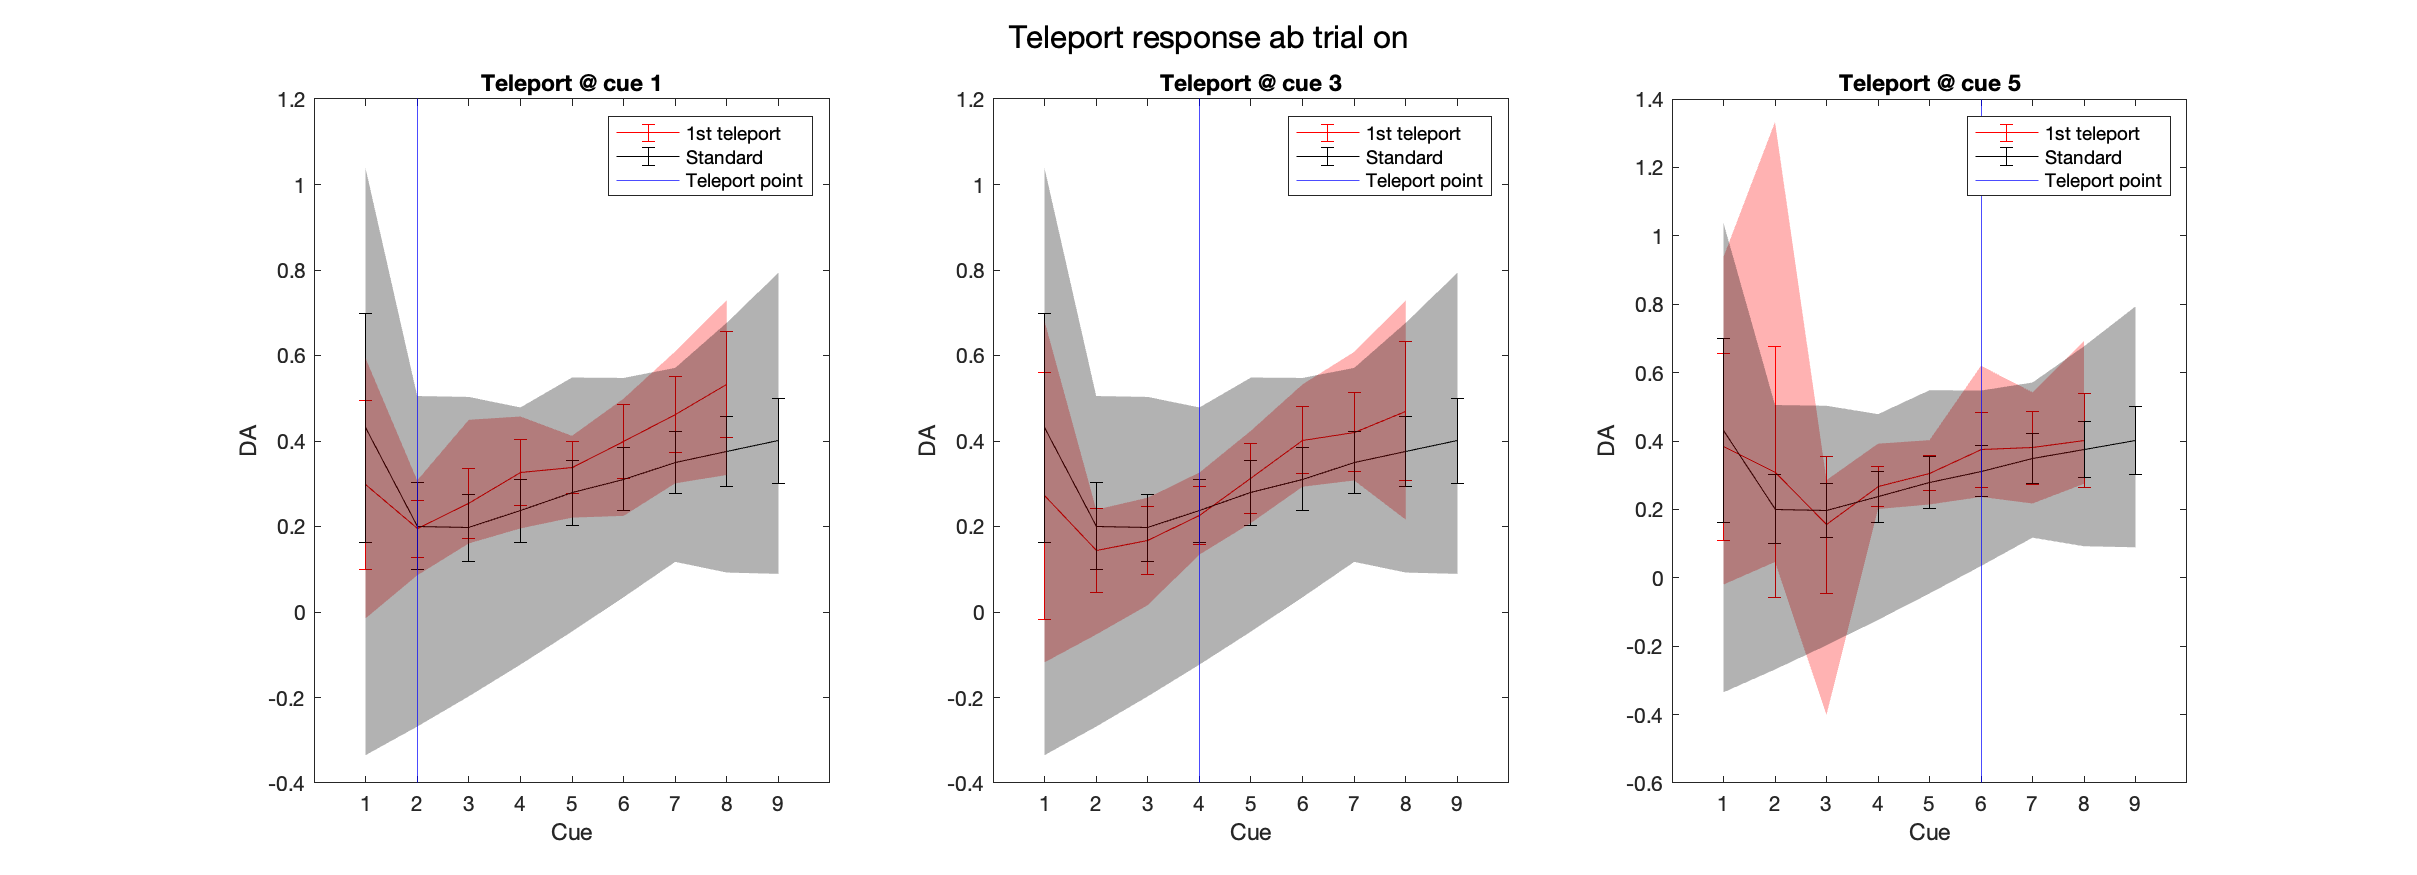
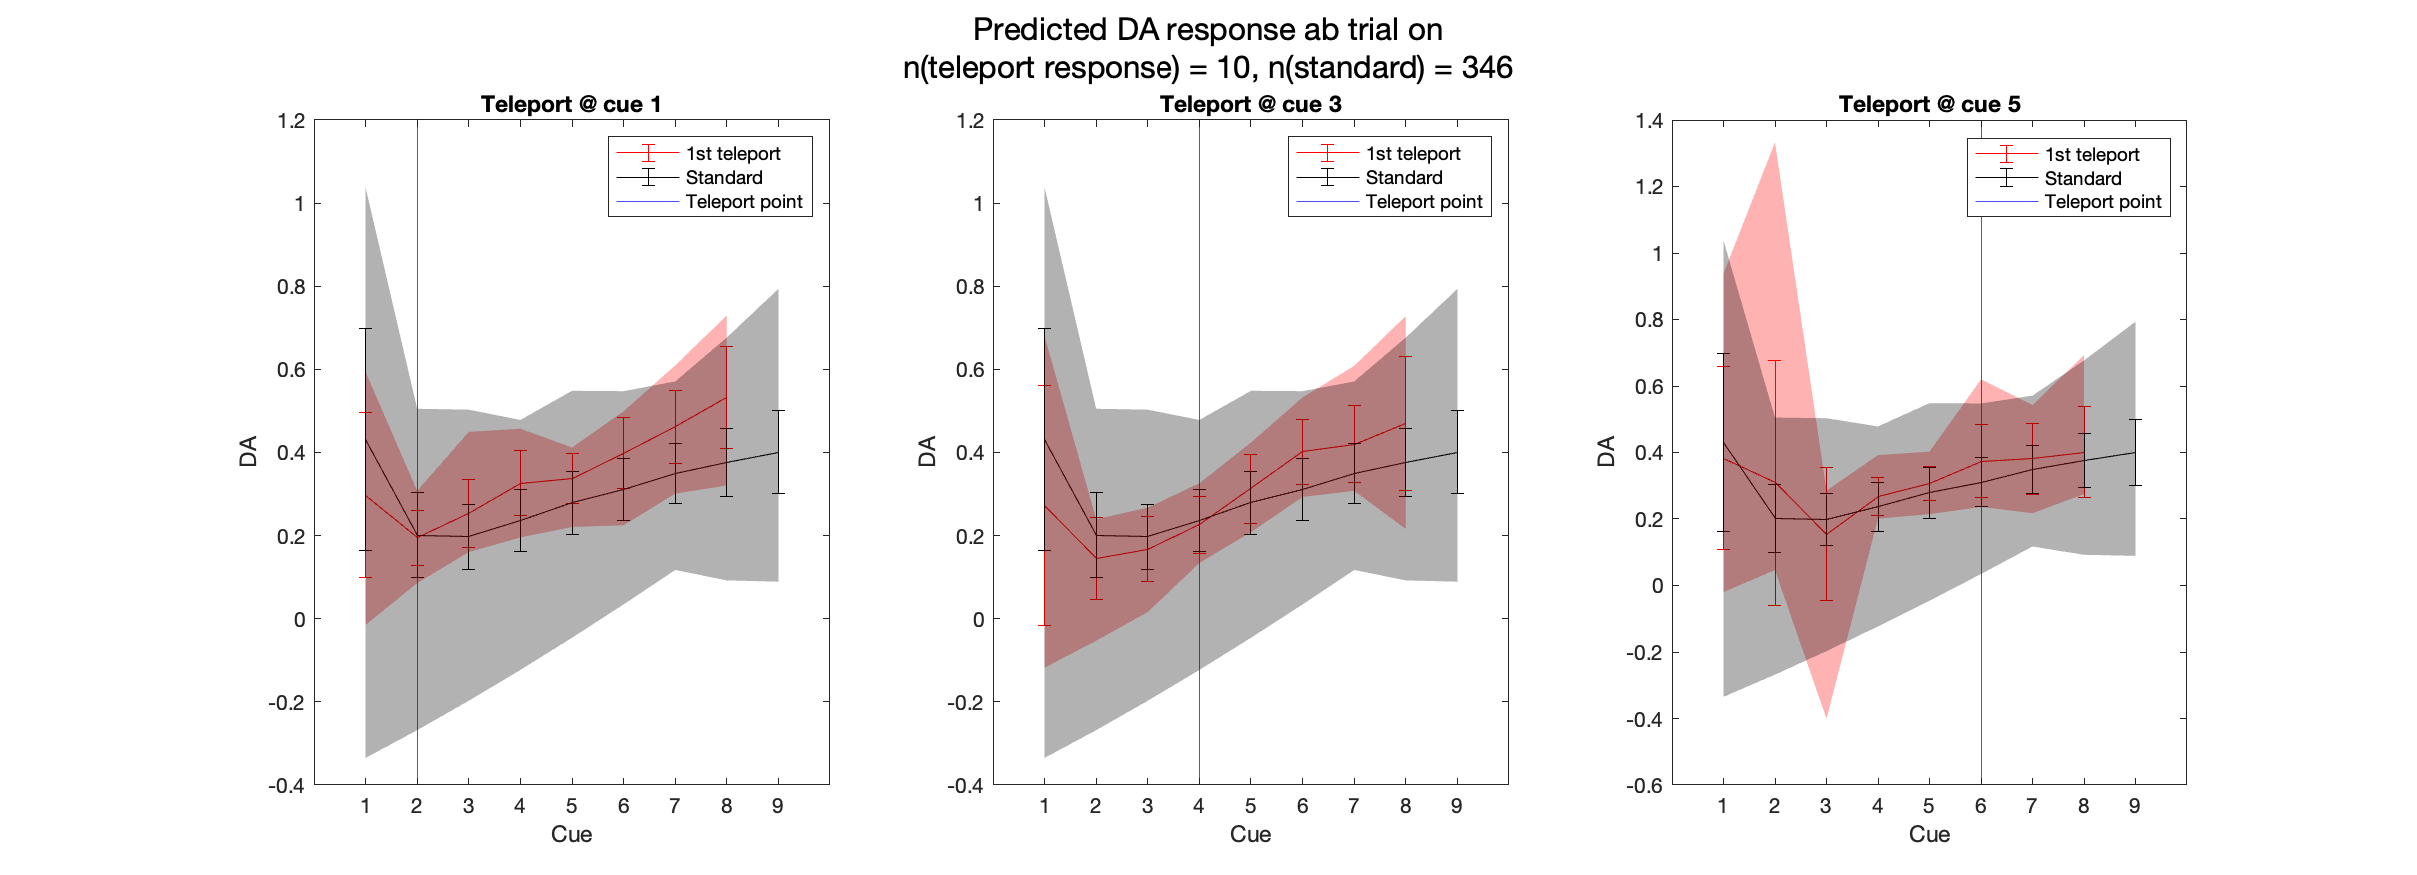
add number of data information in figures

diff --git a/analysis/figS13/plot_teleport.m b/analysis/figS13/plot_teleport.m
@@ -44,8 +44,12 @@ function [] = plot_teleport()
         ) ...
     );
    
-    figure('Name', 'Figure 1. Teleport response aligned by trial on');
-    sgtitle('Teleport response ab trial on')
+    figure('Name', 'Figure 1. Predicted DA response aligned by trial on');
+    t = sprintf(['Predicted DA response ab trial on\n' ...
+        'n(teleport response) = %d, n(standard) = %d'], ...
+        n_sim, n_ctrl ...
+    );
+    sgtitle(t);
     pos = get(gcf, 'Position');
     set(gcf, 'Position', pos + [0 0 600 0]);
     for i = 1:n_tel
@@ -89,9 +93,12 @@ function [] = plot_teleport()
     end
     saveas(gcf,'./fig/figS13_1-teleport_response_ab_trial_on.png');
 
-    figure('Name', 'Figure 2. Teleport response aligned by reward on');
-    sgtitle('Teleport response ab reward on')
-    pos = get(gcf, 'Position');
+    figure('Name', 'Figure 2. Predicted DA response aligned by reward on');
+    t = sprintf(['Predicted DA response ab reward on\n' ...
+        'n(teleport response) = %d, n(standard) = %d'], ...
+        n_sim, n_ctrl ...
+    );
+    sgtitle(t);    pos = get(gcf, 'Position');
     set(gcf, 'Position', pos + [0 0 600 0]);
     for i = 1:n_tel
         subplot(1, 3, i);
